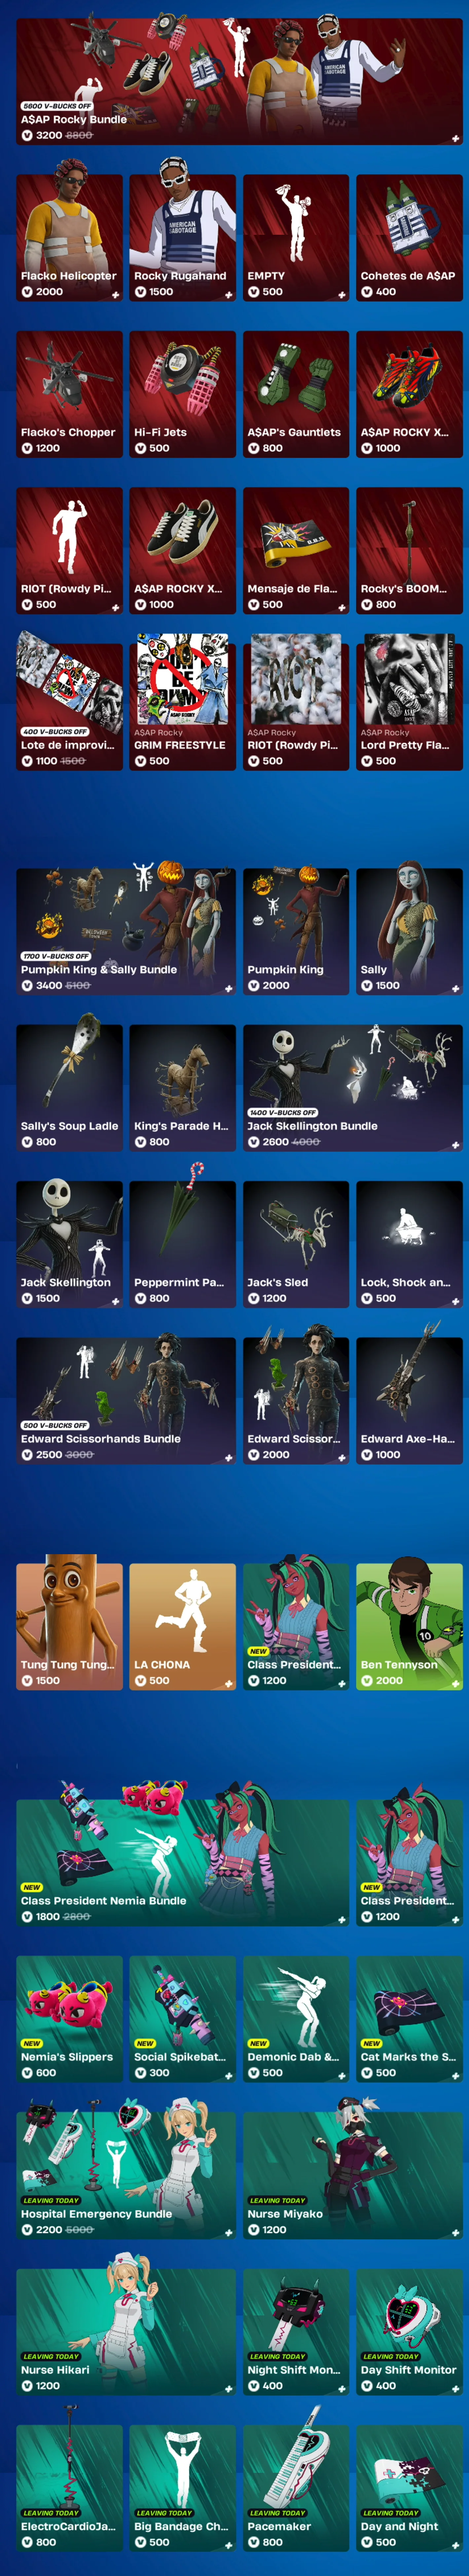
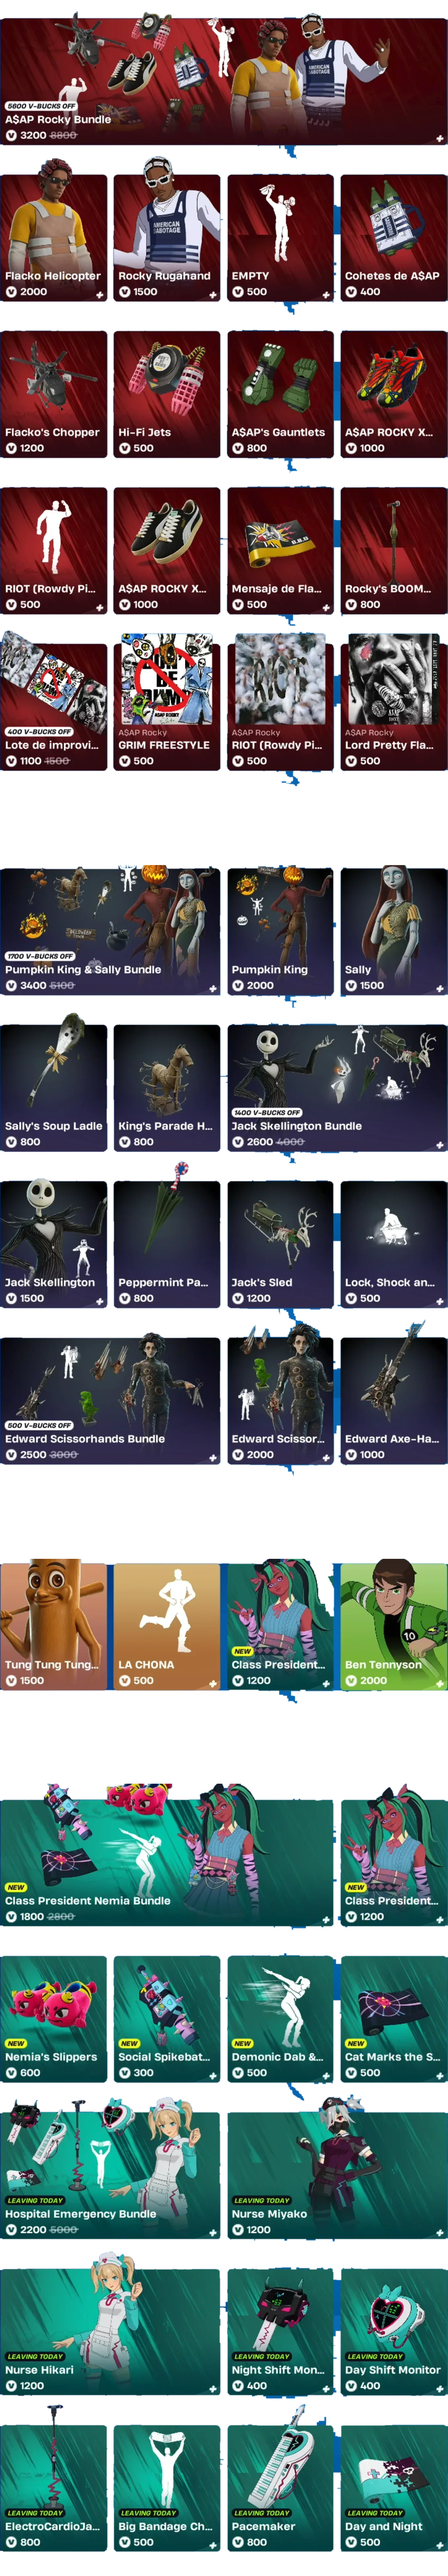
Fortnite shop: fondo transparente alrededor de las tarjetas (#448)
* TikTok FYP: remove progress knob, clean LIVE icon, contain wide videos, multi hearts, saved toast

Claude-Session: https://claude.ai/code/session_019XkTPpmcsHWjk58MruyJfw

* TikTok FYP: quitar pestaña Merida

Claude-Session: https://claude.ai/code/session_019XkTPpmcsHWjk58MruyJfw

* TikTok FYP: LIVE icon back, real Saved toast, smaller rail icons, fixed comment icon, faster like, pause icon

Claude-Session: https://claude.ai/code/session_019XkTPpmcsHWjk58MruyJfw

* TikTok FYP: real LIVE icon

Claude-Session: https://claude.ai/code/session_019XkTPpmcsHWjk58MruyJfw

* TikTok FYP: rail icons cut from the real reference

Claude-Session: https://claude.ai/code/session_019XkTPpmcsHWjk58MruyJfw

* TikTok FYP: LIVE icon no longer clipped on the left

Claude-Session: https://claude.ai/code/session_019XkTPpmcsHWjk58MruyJfw

* TikTok Balance: hide bottom nav, cover safe area

Claude-Session: https://claude.ai/code/session_019XkTPpmcsHWjk58MruyJfw

* TikTok Balance/Get Coins: fixed full-screen sheets (no white strip on iOS)

Claude-Session: https://claude.ai/code/session_019XkTPpmcsHWjk58MruyJfw

* TikTok: Camera/Create/LIVE screens, 3-2-1 countdown, live with editable views and likes

Claude-Session: https://claude.ai/code/session_019XkTPpmcsHWjk58MruyJfw

* TikTok LIVE: remove Phantom Blade banner

Claude-Session: https://claude.ai/code/session_019XkTPpmcsHWjk58MruyJfw

* TikTok LIVE: tool icons cut from the real reference
[…]

diff --git a/fortnite-app/index.html b/fortnite-app/index.html
@@ -30,7 +30,7 @@ body[data-screen="shop"] #bgfx{background-image:url(assets/bg_shop_ext.jpg)}
 body[data-screen="vbucks"] #bgfx{background-image:url(assets/bg_vbucks_ext.jpg)}
 #stage{position:fixed;left:50%;top:50%;width:2000px;height:921px;transform-origin:center;overflow:visible;z-index:2;user-select:none;color:#fff}
 .screen{position:absolute;inset:0}.screen[hidden]{display:none}
-#shopscroll{position:absolute;left:340px;top:228px;width:1000px;height:556px;overflow-y:auto;overflow-x:hidden;scrollbar-width:none;-webkit-overflow-scrolling:touch;overscroll-behavior:contain;touch-action:pan-y;pointer-events:auto;-webkit-mask-image:linear-gradient(transparent 0,#000 18px,#000 calc(100% - 26px),transparent 100%);mask-image:linear-gradient(transparent 0,#000 18px,#000 calc(100% - 26px),transparent 100%)}#shopscroll::-webkit-scrollbar{display:none}.shopin{position:relative;width:990px}.shopin .secn{pointer-events:none}#shopscroll img{display:block;width:990px;height:auto;max-width:none}
+#shopscroll{position:absolute;left:374px;top:228px;width:949px;height:556px;overflow-y:auto;overflow-x:hidden;scrollbar-width:none;-webkit-overflow-scrolling:touch;overscroll-behavior:contain;touch-action:pan-y;pointer-events:auto;-webkit-mask-image:linear-gradient(transparent 0,#000 18px,#000 calc(100% - 26px),transparent 100%);mask-image:linear-gradient(transparent 0,#000 18px,#000 calc(100% - 26px),transparent 100%)}#shopscroll::-webkit-scrollbar{display:none}.shopin{position:relative;width:945px}.shopin .secn{pointer-events:none}#shopscroll img{display:block;width:945px;height:auto;max-width:none}
 .gl{position:absolute;pointer-events:none}.gl.btn{pointer-events:auto;cursor:pointer}
 .pack{position:absolute;inset:0;pointer-events:none}
 .screen.play .pack{animation:rise .5s cubic-bezier(.2,.8,.2,1) both;animation-delay:calc(var(--d) + 120ms)}
@@ -113,7 +113,7 @@ body[data-screen="vbucks"] #bgfx{background-image:url(assets/bg_vbucks_ext.jpg)}
 </section>
 <section class="screen" data-screen="shop" hidden>
  <img class="px " src="assets/shop_filter.webp" alt="" draggable="false" style="left:217.57px;top:147.14px;width:82.29px;height:79.50px;" ><img class="px " src="assets/shop_rail.webp" alt="" draggable="false" style="left:214.78px;top:248.26px;width:85.08px;height:639.47px;" ><div class="t lt stitle" data-t="shop.title" style="left:751.4px;top:168.8px;font-size:52.2px;font-family:'Archivo Black';font-weight:400;transform:translate(-50%,-50%);font-style:italic;"></div>
- <div id="shopscroll"><div class="shopin"><img src="assets/shop_items.webp" alt="" draggable="false"><div class="t secn" data-t="shop.sec1" style="left:34.2px;top:1782.9px;font-size:36px;font-family:'Archivo Black';font-style:italic;font-weight:400;color:#fff;text-shadow:0 3px 4px rgba(0,0,40,.35);transform:translateY(-50%)"></div><div class="t secn" data-t="shop.sec2" style="left:34.2px;top:3244.5px;font-size:36px;font-family:'Archivo Black';font-style:italic;font-weight:400;color:#fff;text-shadow:0 3px 4px rgba(0,0,40,.35);transform:translateY(-50%)"></div><div class="t secn" data-t="shop.sec3" style="left:36.9px;top:3720.9px;font-size:36px;font-family:'Archivo Black';font-style:italic;font-weight:400;color:#fff;text-shadow:0 3px 4px rgba(0,0,40,.35);transform:translateY(-50%)"></div></div></div>
+ <div id="shopscroll"><div class="shopin"><img src="assets/shop_items.webp" alt="" draggable="false"><div class="t secn" data-t="shop.sec1" style="left:0.7px;top:1782.9px;font-size:36px;font-family:'Archivo Black';font-style:italic;font-weight:400;color:#fff;text-shadow:0 3px 4px rgba(0,0,40,.35);transform:translateY(-50%)"></div><div class="t secn" data-t="shop.sec2" style="left:0.7px;top:3244.5px;font-size:36px;font-family:'Archivo Black';font-style:italic;font-weight:400;color:#fff;text-shadow:0 3px 4px rgba(0,0,40,.35);transform:translateY(-50%)"></div><div class="t secn" data-t="shop.sec3" style="left:3.4px;top:3720.9px;font-size:36px;font-family:'Archivo Black';font-style:italic;font-weight:400;color:#fff;text-shadow:0 3px 4px rgba(0,0,40,.35);transform:translateY(-50%)"></div></div></div>
  <div class="gl "  style="left:766px;top:798px;width:439px;height:72px;border-radius:16px;background:rgba(80,150,240,0.7)"></div><div class="t lt bt bl" data-t="shop.buttons.creator" style="left:984.5px;top:834.4px;font-size:25.0px;font-family:'Montserrat';font-weight:800;transform:translate(-50%,-50%);"></div><div class="gl "  style="left:1220px;top:798px;width:230px;height:72px;border-radius:16px;background:rgba(80,150,240,0.7)"></div><div class="t lt bt bl" data-t="shop.buttons.about" style="left:1335.6px;top:833.9px;font-size:23.8px;font-family:'Montserrat';font-weight:800;transform:translate(-50%,-50%);"></div><div class="gl "  style="left:1466px;top:798px;width:164px;height:72px;border-radius:16px;background:rgba(80,150,240,0.7)"></div><div class="t lt bt ink" data-t="shop.buttons.select" style="left:1549.0px;top:833.7px;font-size:26.6px;font-family:'Montserrat';font-weight:800;transform:translate(-50%,-50%);"></div><div class="gl "  style="left:1648px;top:798px;width:71px;height:72px;border-radius:16px;background:rgba(80,150,240,0.7)"></div><img class="px " src="assets/shop_b_mic_i.webp" alt="" draggable="false" style="left:1647.84px;top:797.77px;width:71.13px;height:72.52px;" ><div class="gl btn" data-act="chat" style="left:1736px;top:798px;width:132px;height:72px;border-radius:16px;background:rgba(80,150,240,0.7)"></div><div class="t lt bt bl" data-t="bar.chat" style="left:1801.1px;top:833.9px;font-size:24.0px;font-family:'Montserrat';font-weight:800;transform:translate(-50%,-50%);"></div>
 </section>
 <section class="screen" data-screen="vbucks" hidden><div class="pack" style="--d:0ms"><img class="px card" src="assets/vb_card0.webp" alt="" draggable="false" style="left:462.34px;top:175.73px;width:273.36px;height:542.54px;" ><div class="t vba" data-t="vbucks.packs.0.amount" style="left:599px;top:290px;font-size:30px;transform:translate(-50%,-50%);"></div><div class="t vbu" data-t="vbucks.packs.0.unit" style="left:599px;top:317px;font-size:24px;transform:translate(-50%,-50%);"></div><div class="t vbpr" data-t="vbucks.packs.0.price" style="left:599px;top:679px;font-size:25px;transform:translate(-50%,-50%);"></div></div><div class="pack" style="--d:110ms"><img class="px card" src="assets/vb_card1.webp" alt="" draggable="false" style="left:755.23px;top:175.73px;width:274.06px;height:542.54px;" ><div class="t vba" data-t="vbucks.packs.1.amount" style="left:891px;top:290px;font-size:30px;transform:translate(-50%,-50%);"></div><div class="t vbu" data-t="vbucks.packs.1.unit" style="left:891px;top:317px;font-size:24px;transform:translate(-50%,-50%);"></div><div class="t vbb" style="left:891px;top:343px"><span data-t="vbucks.includes"></span><img src="assets/ic_vbucks.webp" alt=""><span data-t="vbucks.packs.1.bonus"></span></div><div class="t vbp" data-t="vbucks.packs.1.pct" style="left:891px;top:201px;font-size:23px;transform:translate(-50%,-50%);"></div><div class="t vbx" data-t="vbucks.extra" style="left:891px;top:220px;font-size:11px;transform:translate(-50%,-50%);"></div><div class="t vbpr" data-t="vbucks.packs.1.price" style="left:891px;top:679px;font-size:25px;transform:translate(-50%,-50%);"></div></div><div class="pack" style="--d:220ms"><img class="px card" src="assets/vb_card2.webp" alt="" draggable="false" style="left:1046.03px;top:175.73px;width:274.06px;height:542.54px;" ><div class="t vba" data-t="vbucks.packs.2.amount" style="left:1183px;top:290px;font-size:30px;transform:translate(-50%,-50%);"></div><div class="t vbu" data-t="vbucks.packs.2.unit" style="left:1183px;top:317px;font-size:24px;transform:translate(-50%,-50%);"></div><div class="t vbb" style="left:1183px;top:343px"><span data-t="vbucks.includes"></span><img src="assets/ic_vbucks.webp" alt=""><span data-t="vbucks.packs.2.bonus"></span></div><div class="t vbp" data-t="vbucks.packs.2.pct" style="left:1183px;top:201px;font-size:23px;transform:translate(-50%,-50%);"></div><div class="t vbx" data-t="vbucks.extra" style="left:1183px;top:220px;font-size:11px;transform:translate(-50%,-50%);"></div><div class="t vbpr" data-t="vbucks.packs.2.price" style="left:1183px;top:679px;font-size:25px;transform:translate(-50%,-50%);"></div></div><div class="pack" style="--d:330ms"><img class="px card" src="assets/vb_card3.webp" alt="" draggable="false" style="left:1338.21px;top:175.73px;width:274.06px;height:542.54px;" ><div class="t vba" data-t="vbucks.packs.3.amount" style="left:1475px;top:290px;font-size:30px;transform:translate(-50%,-50%);"></div><div class="t vbu" data-t="vbucks.packs.3.unit" style="left:1475px;top:317px;font-size:24px;transform:translate(-50%,-50%);"></div><div class="t vbb" style="left:1475px;top:343px"><span data-t="vbucks.includes"></span><img src="assets/ic_vbucks.webp" alt=""><span data-t="vbucks.packs.3.bonus"></span></div><div class="t vbp" data-t="vbucks.packs.3.pct" style="left:1475px;top:201px;font-size:23px;transform:translate(-50%,-50%);"></div><div class="t vbx" data-t="vbucks.extra" style="left:1475px;top:220px;font-size:11px;transform:translate(-50%,-50%);"></div><div class="t vbpr" data-t="vbucks.packs.3.price" style="left:1475px;top:679px;font-size:25px;transform:translate(-50%,-50%);"></div></div><div class="t vbn" data-t="vbucks.note.0" style="left:162px;top:789px;font-size:18px;transform:translateY(-50%);"></div><div class="t vbn" data-t="vbucks.note.1" style="left:162px;top:816px;font-size:18px;transform:translateY(-50%);"></div><div class="t vbn" data-t="vbucks.note.2" style="left:162px;top:843px;font-size:18px;transform:translateY(-50%);"></div><div class="gl "  style="left:1648px;top:798px;width:71px;height:72px;border-radius:16px;background:rgba(80,150,240,0.7)"></div><img class="px " src="assets/shop_b_mic_i.webp" alt="" draggable="false" style="left:1647.84px;top:797.77px;width:71.13px;height:72.52px;" ><div class="gl btn" data-act="chat" style="left:1736px;top:798px;width:132px;height:72px;border-radius:16px;background:rgba(80,150,240,0.7)"></div><div class="t lt bt bl" data-t="bar.chat" style="left:1801.1px;top:833.9px;font-size:24.0px;font-family:'Montserrat';font-weight:800;transform:translate(-50%,-50%);"></div></section></div>
